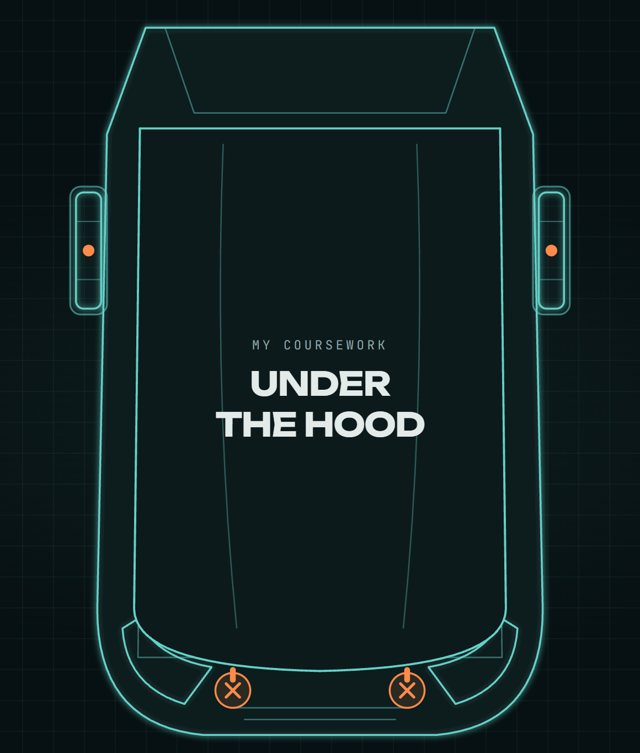
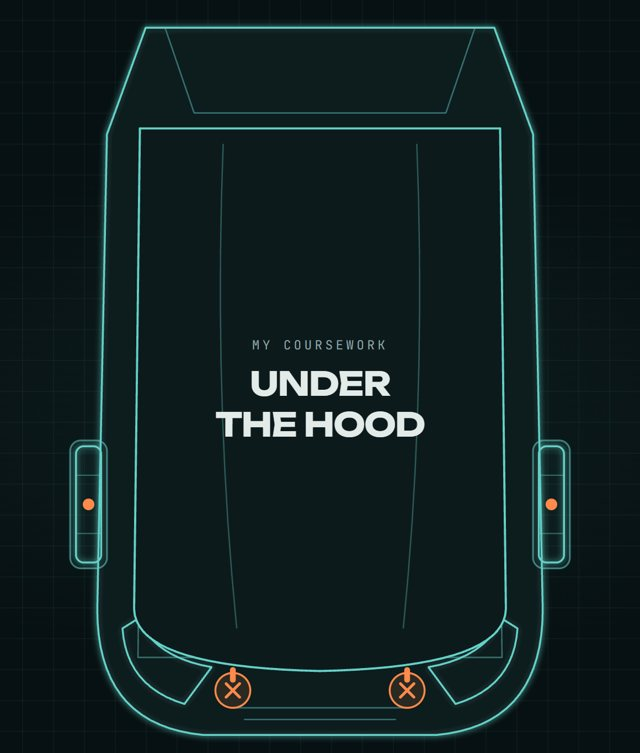
Under the Hood: drop the pull-apart slider, move the front wheels behind the headlights

diff --git a/under-the-hood.html b/under-the-hood.html
@@ -66,11 +66,9 @@ h1 { font-family: var(--font-display); font-weight: 700; font-size: clamp(2rem, 
 .readout strong { display: block; color: var(--accent); font-weight: 500; font-size: .95rem; }
 .is-alive .readout { opacity: 1; }
 
-.bar { position: absolute; left: 0; right: 0; bottom: 0; display: flex; flex-wrap: wrap; align-items: center; gap: 10px 16px; padding: 12px 16px;
+.bar { position: absolute; left: 0; right: 0; bottom: 0; display: flex; flex-wrap: wrap; align-items: center; justify-content: flex-end; gap: 10px 16px; padding: 12px 16px;
   background: linear-gradient(to top, rgba(7, 16, 18, .92), rgba(7, 16, 18, 0)); opacity: 0; transform: translateY(10px); transition: opacity .5s, transform .5s var(--ease); pointer-events: none; }
 .is-alive .bar { opacity: 1; transform: none; pointer-events: auto; }
-.range { display: flex; align-items: center; gap: 10px; flex: 1 1 200px; font-family: var(--font-mono); font-size: .8rem; color: var(--muted); }
-.range input { flex: 1; accent-color: var(--accent); cursor: pointer; }
 .btn { font-family: var(--font-mono); font-size: .8rem; padding: 7px 12px; border-radius: 99px; border: 1px solid var(--line); background: var(--surface); cursor: pointer; }
 .btn:hover { border-color: var(--ink); }
 
@@ -203,8 +201,8 @@ h1 { font-family: var(--font-display); font-weight: 700; font-size: clamp(2rem, 
         <path class="art" d="M120 40 L480 40 L520 150 L530 640 Q530 760 420 770 L180 770 Q70 760 70 640 L80 150 Z"/>
         <path class="art dim" d="M140 40 L170 128 L430 128 L460 40"/>
         <!-- wheels peeking out at the sides -->
-        <rect class="art" x="48" y="210" width="26" height="120" rx="8"/>
-        <rect class="art" x="526" y="210" width="26" height="120" rx="8"/>
+        <rect class="art" x="48" y="472" width="26" height="120" rx="8"/>
+        <rect class="art" x="526" y="472" width="26" height="120" rx="8"/>
         <!-- headlights and grille -->
         <path class="art" d="M96 660 Q100 720 160 738 L188 700 Q130 690 112 650 Z"/>
         <path class="art" d="M504 660 Q500 720 440 738 L412 700 Q470 690 488 650 Z"/>
@@ -261,16 +259,16 @@ h1 { font-family: var(--font-display); font-weight: 700; font-size: clamp(2rem, 
 
         <!-- parts with my CAD models behind them (the orange dot means "opens a 3D model") -->
         <g class="part cad" data-name="Wheel hub" data-model="hub" tabindex="-1" role="button" aria-label="Wheel hub: open my SolidWorks model" style="--d:1.35s">
-          <rect class="shape" x="42" y="204" width="38" height="132" rx="11"/>
-          <path class="detail" d="M48 240 H74 M48 300 H74"/>
-          <circle class="dot" cx="61" cy="270" r="6"/>
-          <text class="label" x="61" y="356">WHEEL HUB</text>
+          <rect class="shape" x="42" y="466" width="38" height="132" rx="11"/>
+          <path class="detail" d="M48 502 H74 M48 562 H74"/>
+          <circle class="dot" cx="61" cy="532" r="6"/>
+          <text class="label" x="61" y="456">WHEEL HUB</text>
         </g>
         <g class="part cad" data-name="Wheel hub" data-model="hub" tabindex="-1" role="button" aria-label="Wheel hub: open my SolidWorks model" style="--d:1.4s">
-          <rect class="shape" x="520" y="204" width="38" height="132" rx="11"/>
-          <path class="detail" d="M526 240 H552 M526 300 H552"/>
-          <circle class="dot" cx="539" cy="270" r="6"/>
-          <text class="label" x="539" y="356">WHEEL HUB</text>
+          <rect class="shape" x="520" y="466" width="38" height="132" rx="11"/>
+          <path class="detail" d="M526 502 H552 M526 562 H552"/>
+          <circle class="dot" cx="539" cy="532" r="6"/>
+          <text class="label" x="539" y="456">WHEEL HUB</text>
         </g>
         <g class="part cad" data-name="Hood hinge" data-model="hinge" tabindex="-1" role="button" aria-label="Hood hinge: open my SolidWorks model" style="--d:1.5s">
           <rect class="shape" x="122" y="150" width="36" height="18" rx="4"/>
@@ -330,7 +328,6 @@ h1 { font-family: var(--font-display); font-weight: 700; font-size: clamp(2rem, 
     </div>
 
     <div class="bar">
-      <label class="range">Pull apart <input type="range" id="explode" min="0" max="100" value="0" aria-label="Pull the parts apart"></label>
       <button class="btn" type="button" id="reset">Close the hood</button>
     </div>
   </div>
@@ -542,20 +539,9 @@ h1 { font-family: var(--font-display); font-weight: 700; font-size: clamp(2rem, 
     if (!k) return; e.preventDefault(); yaw += k[0]; pitch = Math.max(-1.2, Math.min(1.2, pitch + k[1])); idleAt = performance.now();
   });
 
-  // "Pull apart": each part slides away from the middle of the bay, like the enclosure viewer
-  const C = { x: 300, y: 420 };
-  const vec = parts.map((p) => {
-    const b = p.getBBox(), cx = b.x + b.width / 2, cy = b.y + b.height / 2;
-    return { dx: cx - C.x, dy: cy - C.y };   // farther parts move farther; the engine in the middle barely moves
-  });
-  $('#explode').addEventListener('input', (e) => {
-    const k = e.target.value / 100 * 0.4;
-    parts.forEach((p, i) => { p.style.transform = `translate(${(vec[i].dx * k).toFixed(1)}px, ${(vec[i].dy * k).toFixed(1)}px)`; });
-  });
-
   $('#reset').addEventListener('click', () => {
     closeSpot();
-    $('#explode').value = 0; parts.forEach((p) => { p.style.transform = ''; p.classList.remove('on'); p.setAttribute('tabindex', '-1'); });
+    parts.forEach((p) => { p.classList.remove('on'); p.setAttribute('tabindex', '-1'); });
     scene.classList.remove('is-alive');
     bay.classList.add('bay-off');
     zoomTo(FULL, 800, () => {
